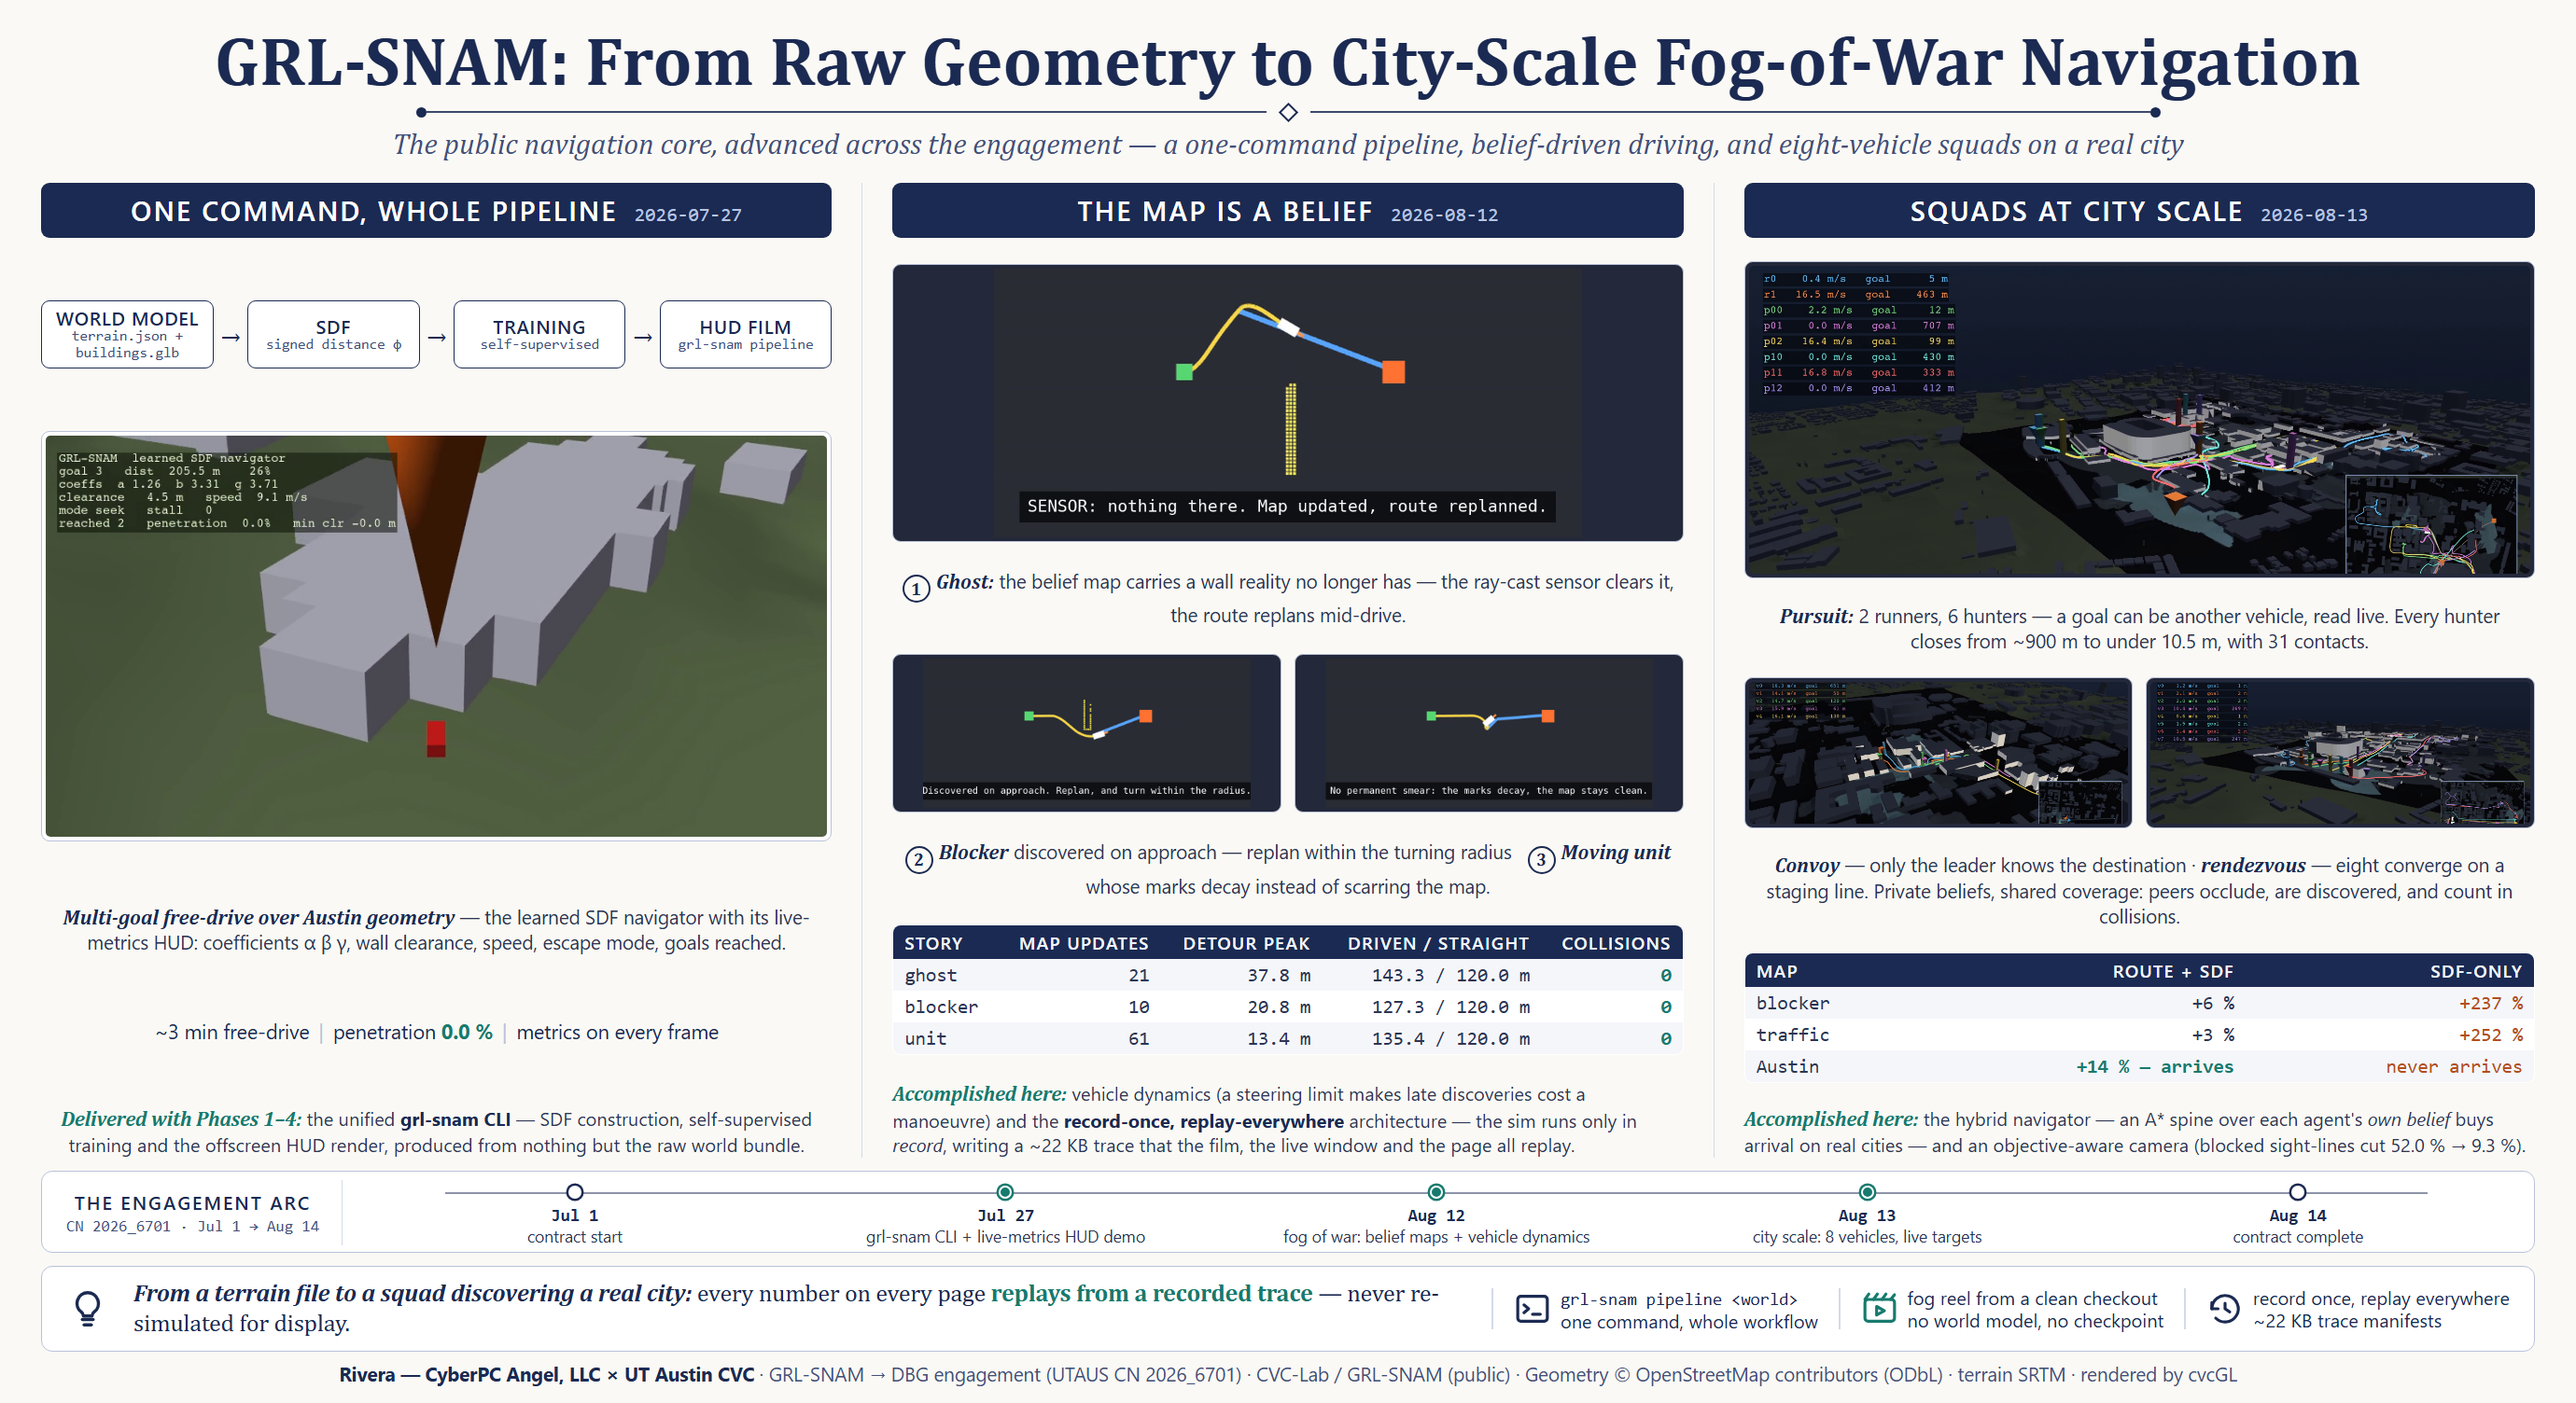
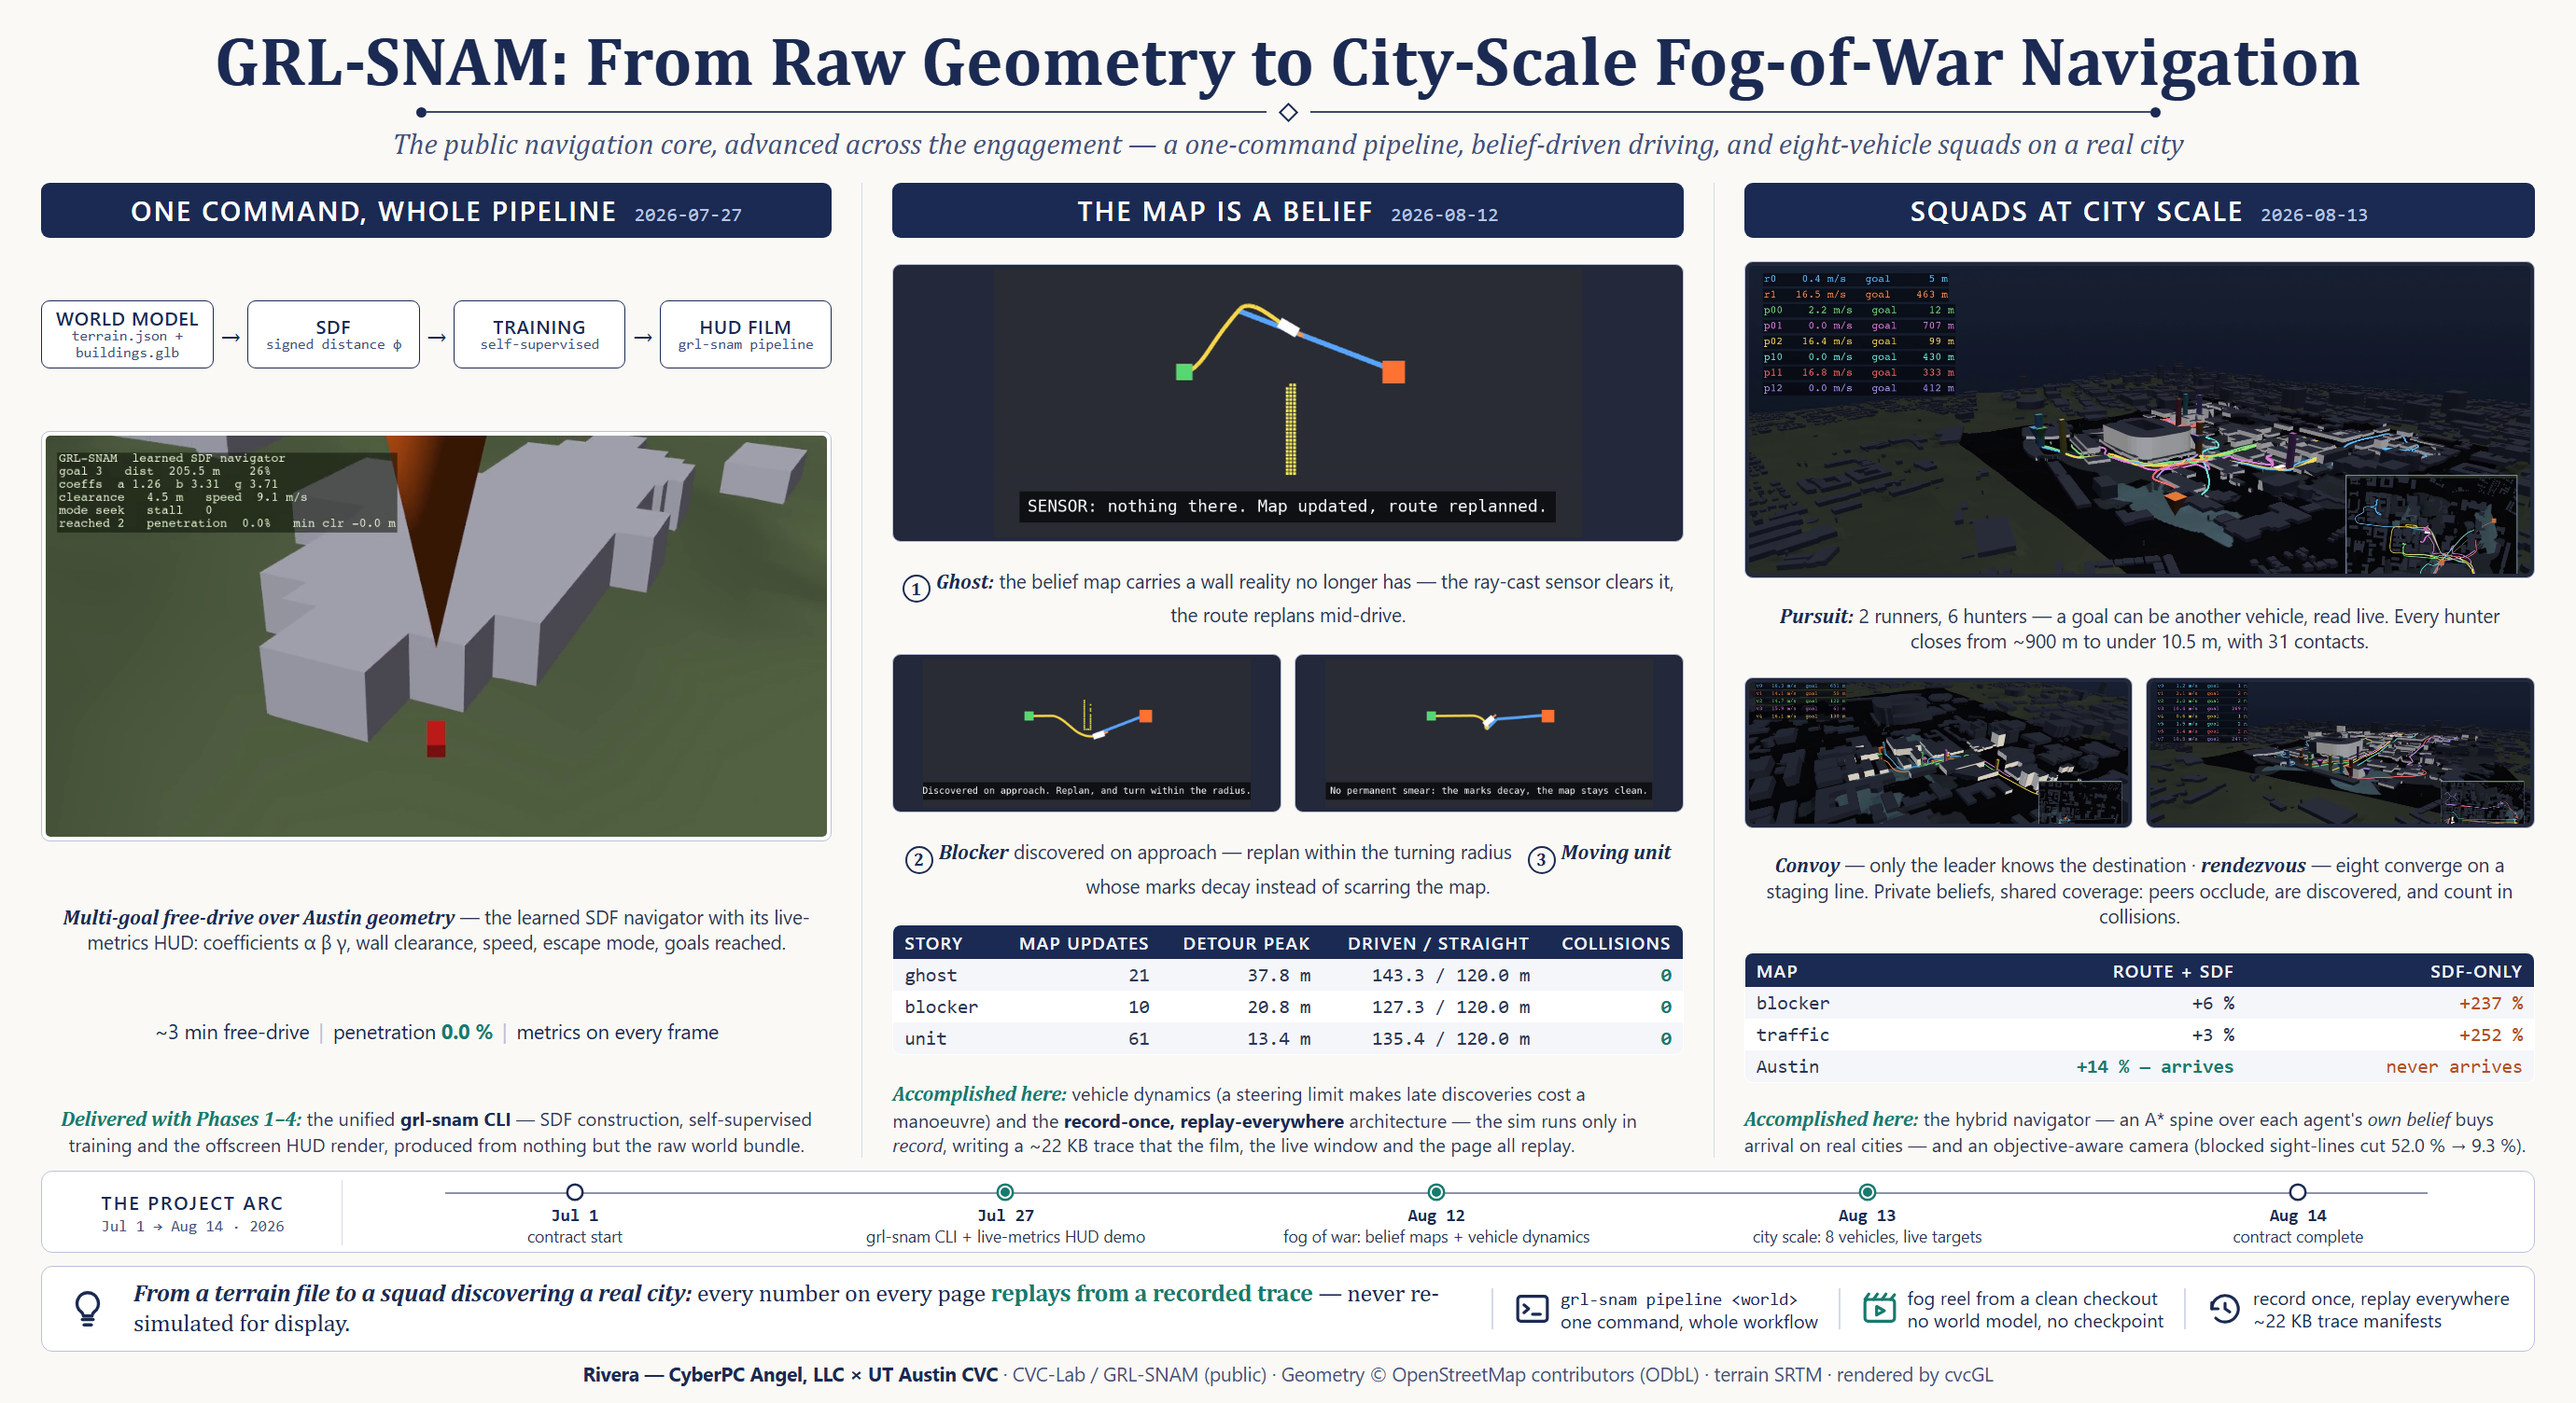
Remove program-specific references from the public site
The CLI demo's architecture diagram named a specific sponsored program;
generalize to "sponsored programs" - the open-base/private-overlay point
does not depend on naming one. Re-render the poster with the engagement
attribution dropped from its footer and the timeline relabelled "The
Project Arc".

Changed region(s): [[0.1246, 0.9688, 0.8725, 1.0], [0.0312, 0.8438, 0.1246, 0.875]]

diff --git a/2026-07-grl-snam-cli-demo/index.html b/2026-07-grl-snam-cli-demo/index.html
@@ -132,8 +132,8 @@ grl-snam demo austin-freedrive --bundle /path/to/scene_bundle --checkpoint coef_
     <div class="board">
       <svg viewBox="0 0 720 340" role="img" aria-label="Layered architecture: open CVC/GRL-SNAM platform with proprietary work on top">
         <rect class="sv-prop" x="386" y="16" width="318" height="70" rx="10" stroke-width="1.6" stroke-dasharray="6 4"/>
-        <text class="t-ink" x="404" y="42" font-size="15" font-weight="700">DBG — U.S. Army program</text>
-        <text class="t-mut" x="404" y="63" font-size="12">comm-resilient navigation · private repos</text>
+        <text class="t-ink" x="404" y="42" font-size="15" font-weight="700">Sponsored programs</text>
+        <text class="t-mut" x="404" y="63" font-size="12">restricted models · private repos</text>
         <text x="684" y="36" font-size="16" text-anchor="end">🔒</text>
         <rect class="sv-open" x="16" y="16" width="330" height="70" rx="10" stroke-width="1.6"/>
         <text class="t-ink" x="34" y="42" font-size="15" font-weight="700">GRL-SNAM lab</text>
@@ -159,7 +159,7 @@ grl-snam demo austin-freedrive --bundle /path/to/scene_bundle --checkpoint coef_
       <div class="mini open"><h3>The lab is open</h3><p>Build the SDF, train the navigator, and run these
         drives from public repos — the field builder even offers CVC's own mesh-exact
         <span style="font-family:var(--mono);font-size:.92em">cvc::sdf</span>, a bridge to full 3-D later.</p></div>
-      <div class="mini prop"><h3>The program is private</h3><p>DBG layers its restricted, radio-aware models
+      <div class="mini prop"><h3>Programs stay private</h3><p>A sponsored program layers its restricted models
         onto the same navigator through the same bindings — warm-started from the open policy, versioned
         entirely in its own repositories. The open base never sees them.</p></div>
     </div>
